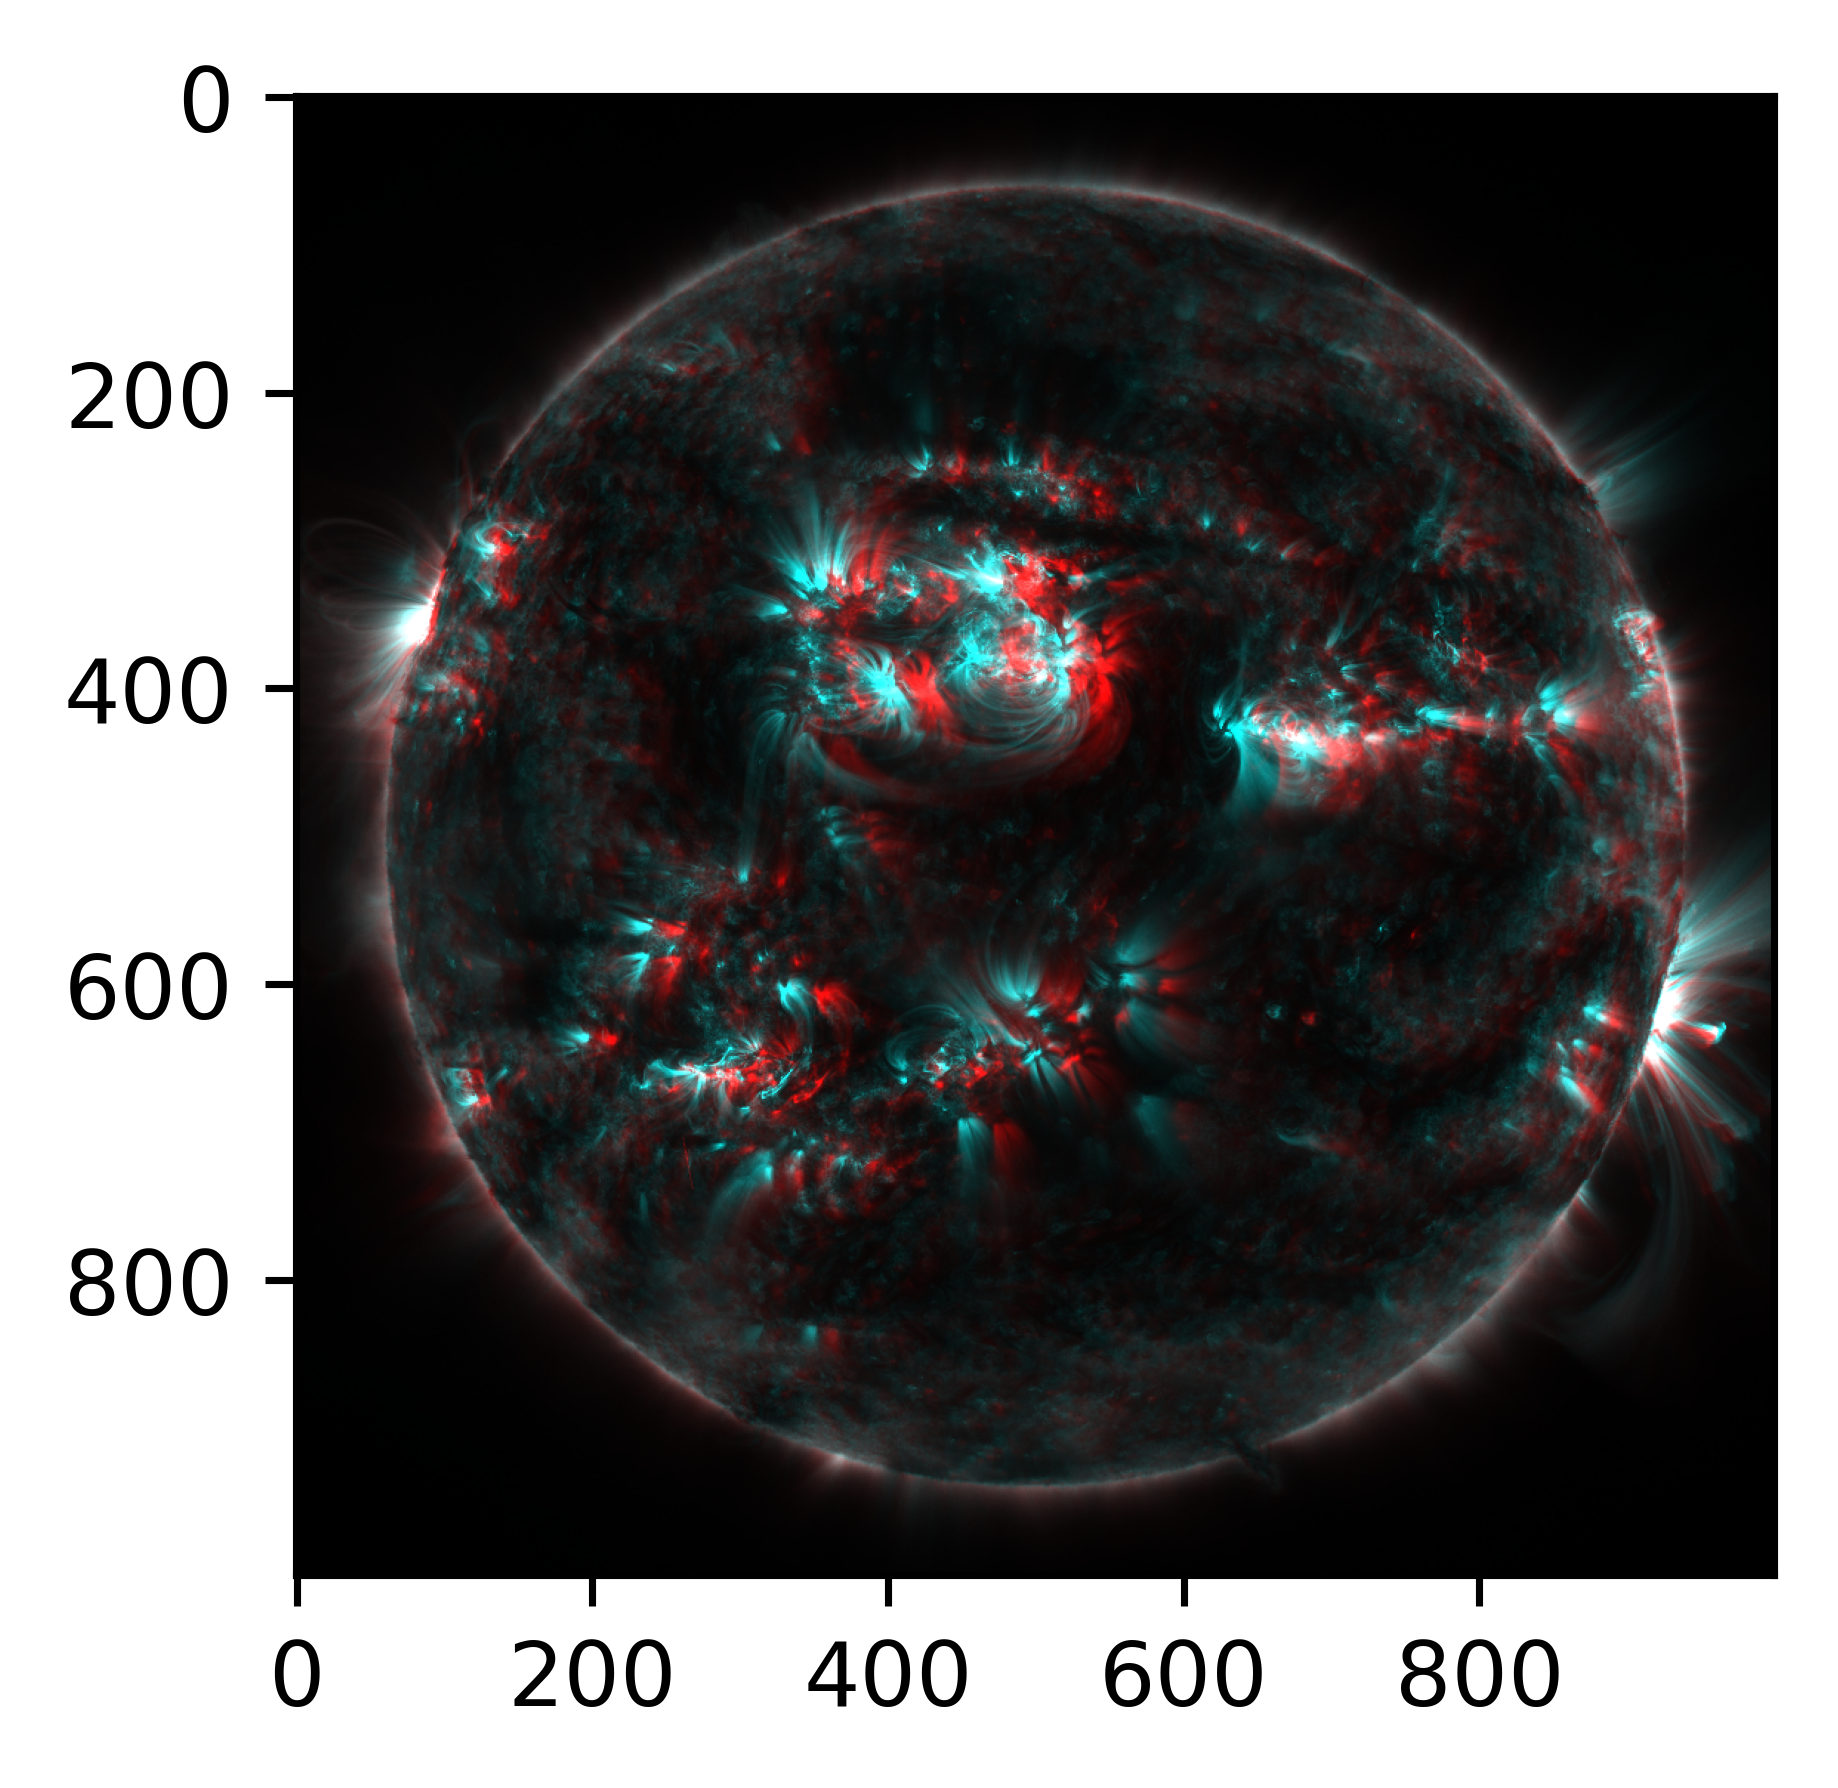
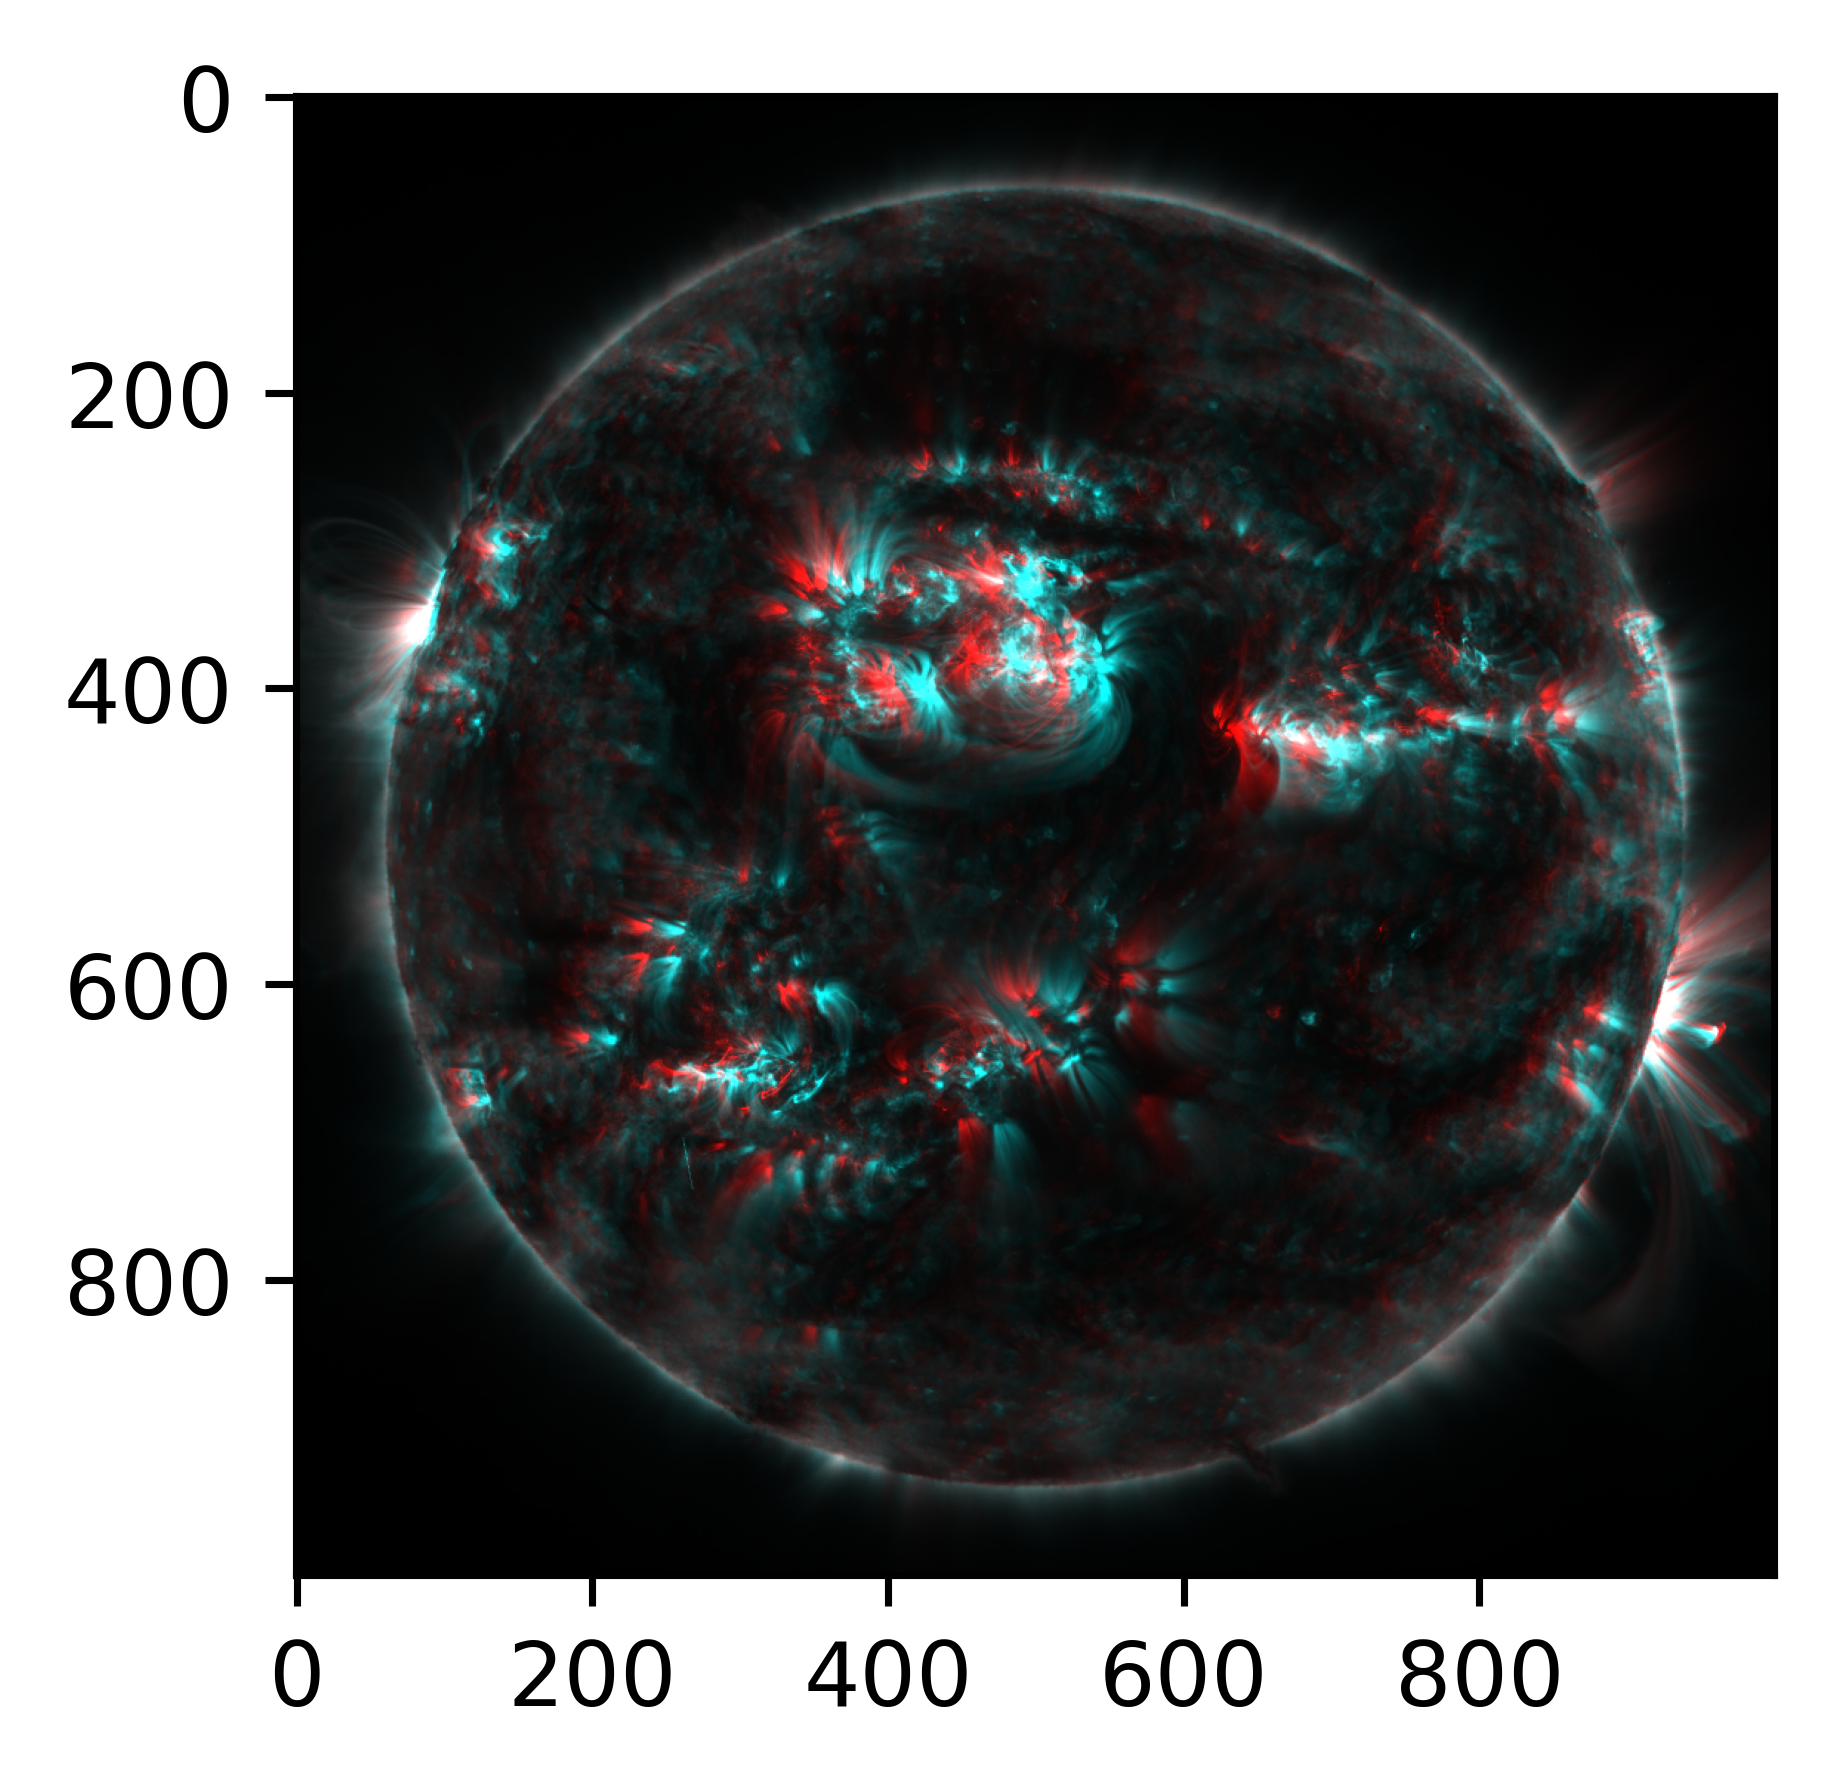
Fix anaglyph ordering

diff --git a/src/mpl_stereo/AxesStereo.py b/src/mpl_stereo/AxesStereo.py
@@ -620,8 +620,8 @@ class AxesAnaglyph(AxesStereoBase):
             The data from the right image.
         """
         named_colors = mpl.colors.get_named_colors_mapping()
-        color_tuple_left = mpl.colors.hex2color(named_colors[self.colors[0]])
-        color_tuple_right = mpl.colors.hex2color(named_colors[self.colors[1]])
+        color_tuple_left = mpl.colors.hex2color(named_colors[self.colors[1]])
+        color_tuple_right = mpl.colors.hex2color(named_colors[self.colors[0]])
 
         cmap_left = copy.deepcopy(plt.get_cmap('gray'))
         cmap_right = copy.deepcopy(cmap_left)

diff --git a/CHANGELOG.md b/CHANGELOG.md
@@ -9,6 +9,7 @@
 - GH release publish to pypi
 - zlim handling and consistent depth
 - AxesAnaglyph.imshow_stereo() other colormaps
+- AxesAnaglyph.imshow_stereo() full color images
 
 ----
 
@@ -16,6 +17,10 @@
 ### Added    
 ### Changed    
 ### Removed    
+
+## [0.4.1] - 2023-12-24
+### Changed    
+* Fix anaglyph color ordering
 
 ## [0.4.0] - 2023-12-23
 ### Added    
